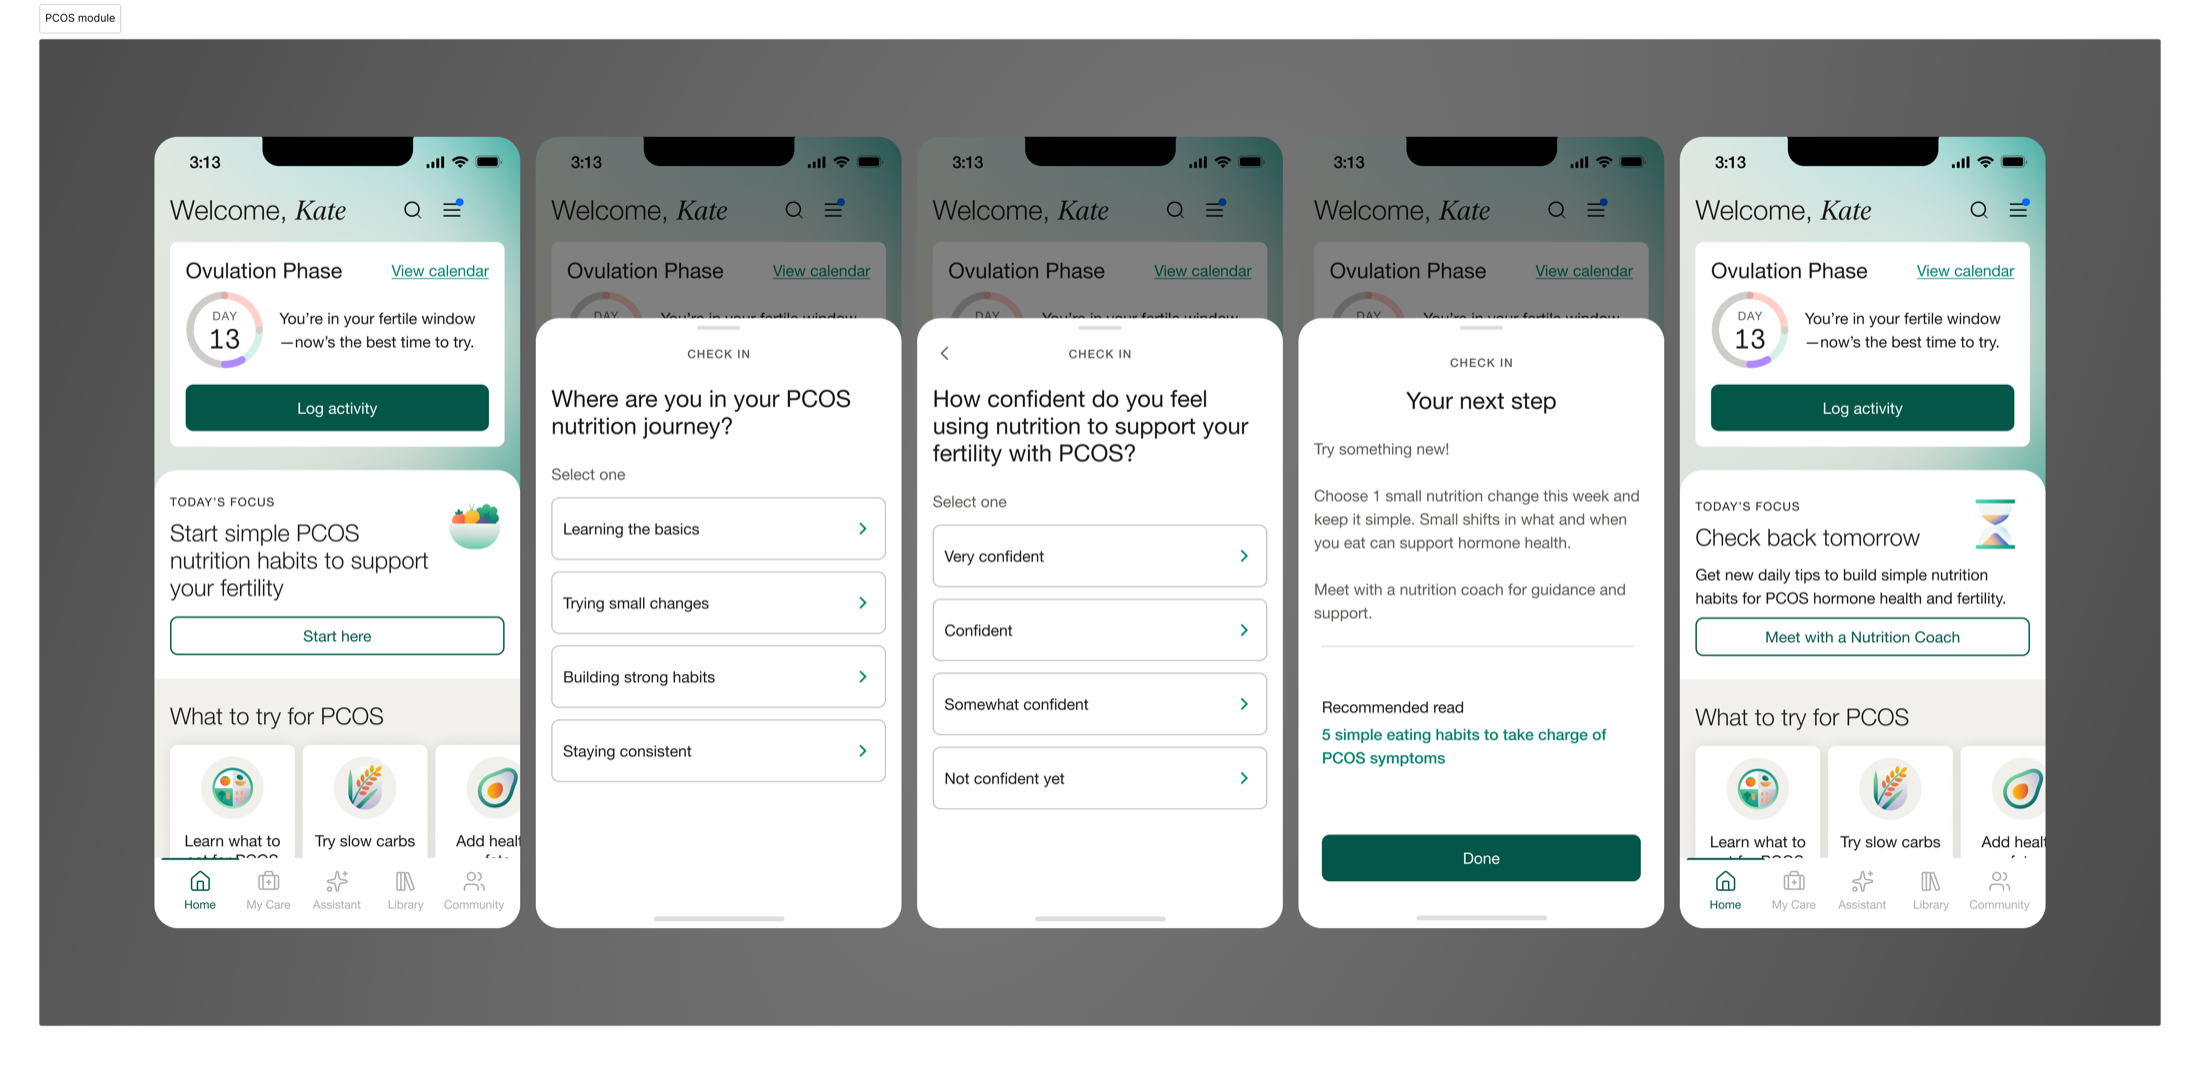
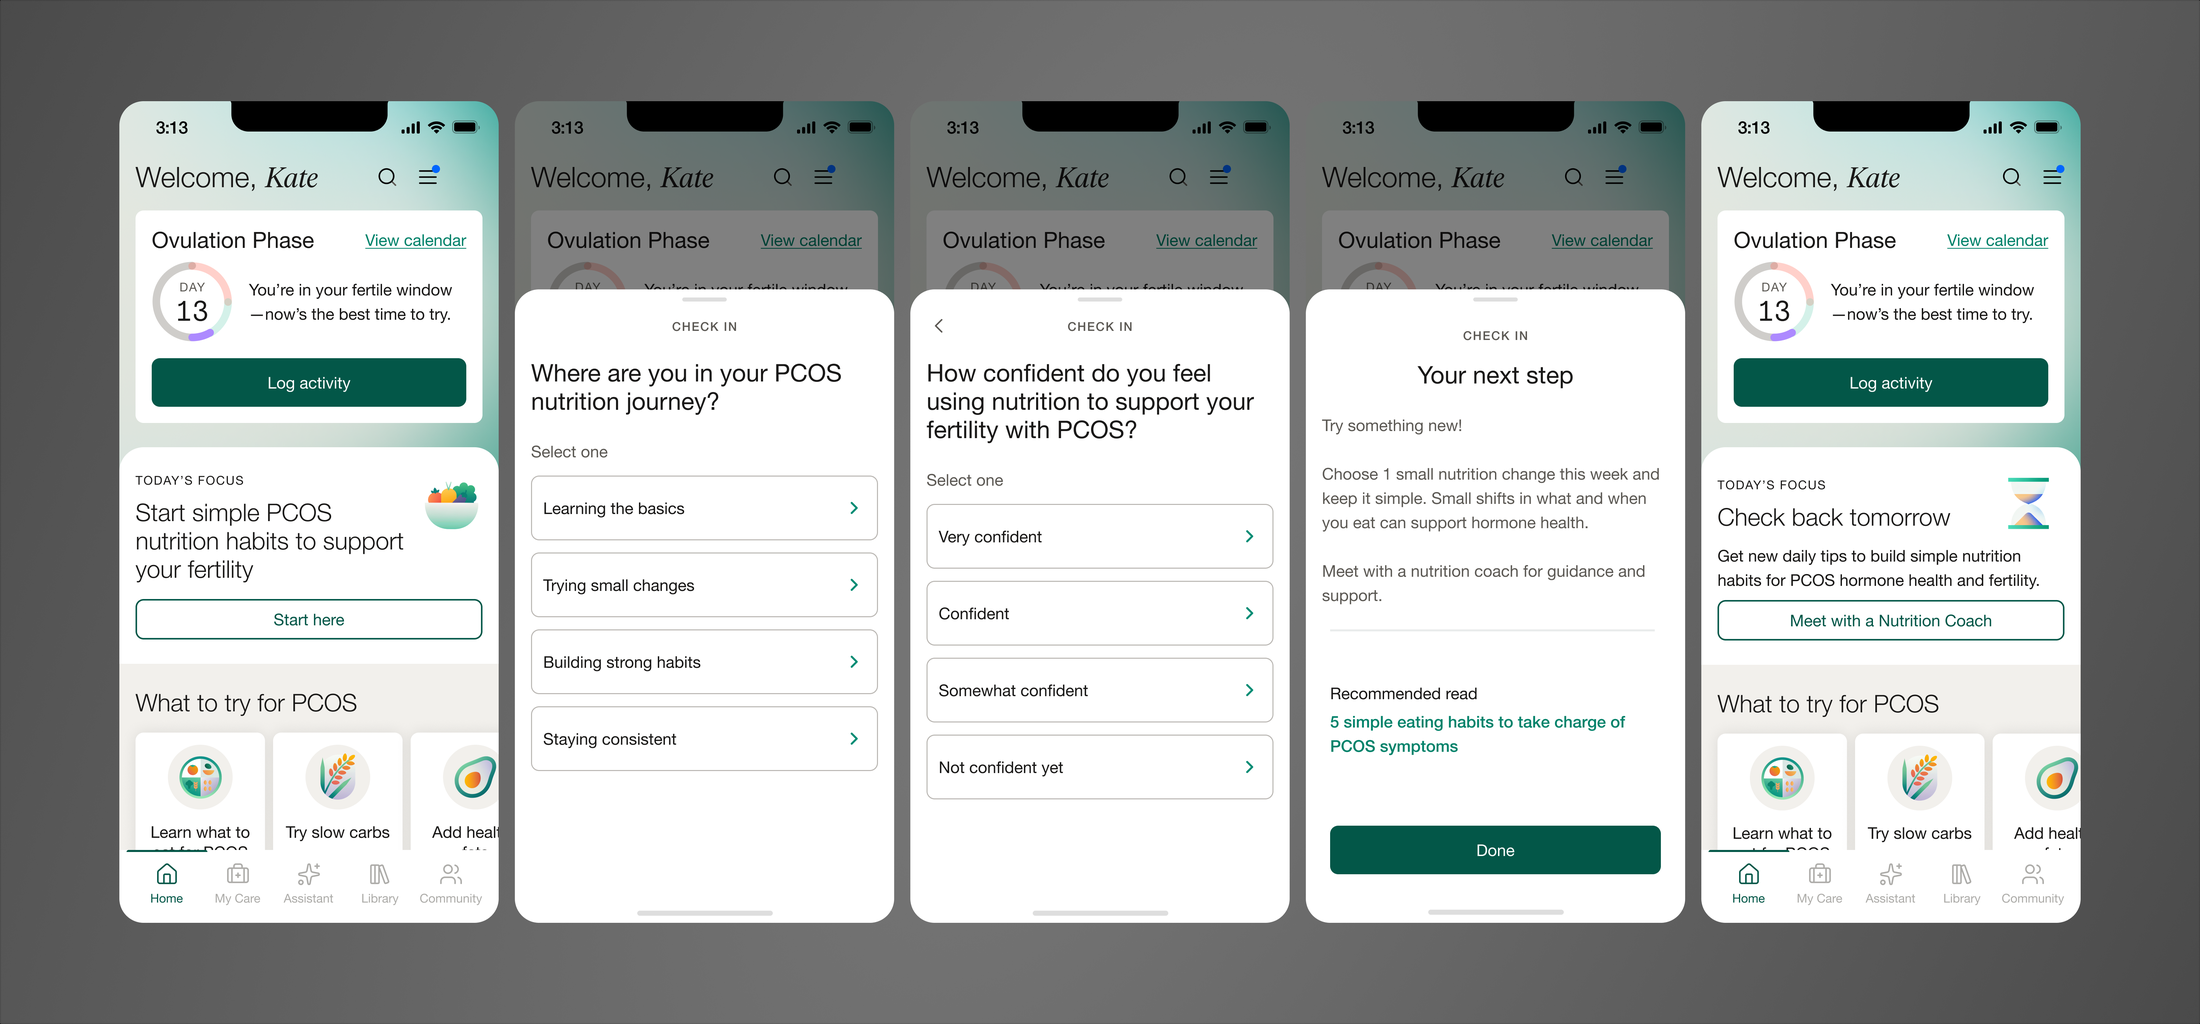
Fix hero image cropping, add story-card carousel image, rewrite and bold copy in PCOS case study
Add missing .cs-img img rule that was causing the hero image to
render cropped instead of scaling to fit. Re-crop hero and new
story-card carousel images to remove the Figma frame chip. Rewrite
the problem-space closing line and bold key phrases throughout.

diff --git a/pcos-nutrition-module.html b/pcos-nutrition-module.html
@@ -155,6 +155,13 @@
     letter-spacing:0.04em;
     color:var(--gray);
   }
+  .cs-img img{
+    width:auto;
+    height:auto;
+    max-width:100%;
+    max-height:640px;
+    object-fit:contain;
+  }
 
   /* CASE SECTIONS */
   .cs-section{
@@ -448,41 +455,42 @@
       <div class="cs-stat"><span class="cs-stat-label">Platform</span><span class="cs-stat-value">iOS · Android · Web</span></div>
       <div class="cs-stat"><span class="cs-stat-label">Rollout</span><span class="cs-stat-value">10% of Fertility users</span></div>
     </div>
-    <div class="cs-img" style="aspect-ratio:2200/1065; max-height:none; border:none; background:none;"><img src="pcos-nutrition-hero.png" data-full="pcos-nutrition-hero-full.png" alt="Five phone mockups of the Maven PCOS nutrition module: the homepage with a Log activity card and Today's Focus, a check-in question on where the user is in their PCOS nutrition journey, a confidence question, a Your next step recommendation with a recommended read, and a Check back tomorrow state with a Meet with a Nutrition Coach prompt" style="max-height:none;"></div>
+    <div class="cs-img" style="aspect-ratio:2200/1024; max-height:none; border:none; background:none;"><img src="pcos-nutrition-hero.png" data-full="pcos-nutrition-hero-full.png" alt="Five phone mockups of the Maven PCOS nutrition module: the homepage with a Log activity card and Today's Focus, a check-in question on where the user is in their PCOS nutrition journey, a confidence question, a Your next step recommendation with a recommended read, and a Check back tomorrow state with a Meet with a Nutrition Coach prompt" style="max-height:none;"></div>
   </section>
 
   <section class="wrap">
     <div class="cs-section">
       <h2>Problem space</h2>
       <p>Maven's Fertility experience was largely generic. A user with PCOS and a user with no diagnosis or suspected condition saw the same homepage, even though PCOS has a well-established, treatment-free management lever: nutrition.</p>
-      <p>For PCOS specifically, dietary changes are one of the most effective non-treatment ways to manage the condition, but Maven wasn't doing anything to help users act on that, or to signal that Maven understood their condition was different from a general fertility case. This mattered beyond one feature. Maven's broader fertility strategy is moving toward condition-based care pathways instead of one-size-fits-all guidance. [Read more about Maven's <a href="https://www.mavenclinic.com/post/the-next-chapter-in-fertility-care-starts-before-treatment" target="_blank" rel="noopener">strategy</a> driving this project.]</p>
+      <p>For PCOS specifically, dietary changes are one of the most effective non-treatment ways to manage the condition, but Maven wasn't doing anything to help users act on that, or to signal that Maven understood their condition was different from a general fertility case. <span class="semibold">This module was the first execution of Maven's strategy shift from one-size-fits-all guidance to condition-based care pathways, starting at the homepage.</span> [Read more about Maven's <a href="https://www.mavenclinic.com/post/the-next-chapter-in-fertility-care-starts-before-treatment" target="_blank" rel="noopener">strategy</a> driving this project.]</p>
     </div>
     <div class="cs-section">
       <h2>What I built</h2>
       <h3>The module</h3>
-      <p>I designed a homepage module that rotated content over a weekly cycle each time a user logged in. Rotations mixed formats deliberately: some days surfaced an assessment question through a bottom sheet, others prompted a loggable behavior (like a short walk after a meal), others delivered supportive or educational content. The goal was to make daily engagement feel varied, while quietly capturing data on what users were doing and how they felt about managing their condition.</p>
+      <p>I designed a homepage module that rotated content over a weekly cycle each time a user logged in. Rotations mixed formats deliberately: some days surfaced an assessment question through a bottom sheet, others prompted a loggable behavior (like a short walk after a meal), others delivered supportive or educational content. The goal was to <span class="semibold">make daily engagement feel varied, while quietly capturing data</span> on what users were doing and how they felt about managing their condition.</p>
 
       <h3>Story-card carousel</h3>
-      <p>Alongside the module, I designed a story-card carousel, an Instagram Stories-style format, with 7 illustrated card sets going deep on individual nutrition topics (protein was one). This was meant to be a more interactive, higher-retention alternative to a static article for users who wanted to go beyond the daily module.</p>
+      <p>Alongside the module, I designed a story-card carousel, an Instagram Stories-style format, with 7 illustrated card sets going deep on individual nutrition topics (protein was one). <span class="semibold">This was meant to be a more interactive, higher-retention alternative to a static article</span> for users who wanted to go beyond the daily module.</p>
+      <div class="cs-img" style="aspect-ratio:2200/1385; margin:32px 0; border:none; background:none;"><img src="pcos-nutrition-story-carousel.png" data-full="pcos-nutrition-story-carousel-full.png" alt="Four phone mockups of the Maven PCOS story-card carousel: the homepage entry point and three illustrated cards on how PCOS nutrition affects symptoms, slowing digestion to keep blood sugar stable, and building a balanced breakfast"></div>
 
       <h3>The hardest part: assessments</h3>
-      <p>The assessment bottom sheets needed to plug into Maven's existing assessment infrastructure, tightly coupled to legacy backend architecture never built for this use case. I worked closely with engineering to unwind that constraint and find the simplest path to ship without rebuilding the system underneath it.</p>
+      <p>The assessment bottom sheets needed to plug into Maven's existing assessment infrastructure, tightly coupled to legacy backend architecture never built for this use case. <span class="semibold">I worked closely with engineering to unwind that constraint and find the simplest path to ship without rebuilding the system underneath it.</span></p>
       <p>That tradeoff shaped scope: questions were limited to checkbox/multiselect and radio/single-select formats, and result screens stayed simple. I scoped and proposed a future version of the assessment UI supporting more question types and more visually developed result pages.</p>
 
       <h3>A new pattern</h3>
       <p>I designed a new interaction pattern for activity logging: a “mark as done” button with a distinct completed state, now a reusable pattern in Maven's design system.</p>
 
       <h3>Why it mattered beyond this feature</h3>
-      <p>Two things made this bigger than a single feature. First, the module was built as a template, not a one-off, structured to be repurposed for other condition pathways, starting with Endometriosis.</p>
+      <p>Two things made this bigger than a single feature. First, <span class="semibold">the module was built as a template, not a one-off</span>, structured to be repurposed for other condition pathways, starting with Endometriosis.</p>
       <p>Second, it changed what the top of the Fertility homepage does. Instead of static content, users now see something dynamic, personalized to their condition, and interactive, supporting Maven's broader positioning shift toward condition-specific care.</p>
     </div>
     <div class="cs-section">
       <h2>Prototyping as the primary tool</h2>
-      <p>Static screens couldn't show how this worked. The homepage rotated through different states over a week, assessment sheets, loggable activities, story cards, completed states. I built the whole thing as a working prototype in Figma Make, and it became the source of truth everyone worked from. Engineers and I used it together to work through edge cases and highlight discrepancies between ideal state designs and currently available UI, and Product and stakeholders relied on the same prototype to drive their conversations.</p>
+      <p>Static screens couldn't show how this worked. The homepage rotated through different states over a week, assessment sheets, loggable activities, story cards, completed states. <span class="semibold">I built the whole thing as a working prototype in Figma Make, and it became the source of truth everyone worked from.</span> Engineers and I used it together to work through edge cases and highlight discrepancies between ideal state designs and currently available UI, and Product and stakeholders relied on the same prototype to drive their conversations.</p>
     </div>
     <div class="cs-section" style="border-bottom:none;">
       <h2>Outcome</h2>
-      <p>This shipped in May 2026, so there's no usage data yet. What it's designed to move: daily engagement with the Fertility homepage for PCOS users, self-reported symptom and behavior data Maven didn't previously have.</p>
+      <p>This shipped in May 2026, so there's no usage data yet. What it's designed to move: <span class="semibold">daily engagement with the Fertility homepage for PCOS users, self-reported symptom and behavior data Maven didn't previously have.</span></p>
       <p>On the design side, the concrete outcomes are already real: a new templatized content block now available to other condition pathways, a new button interaction pattern adopted into the design system, and a scoped path forward for a more flexible assessment UI.</p>
     </div>
 
